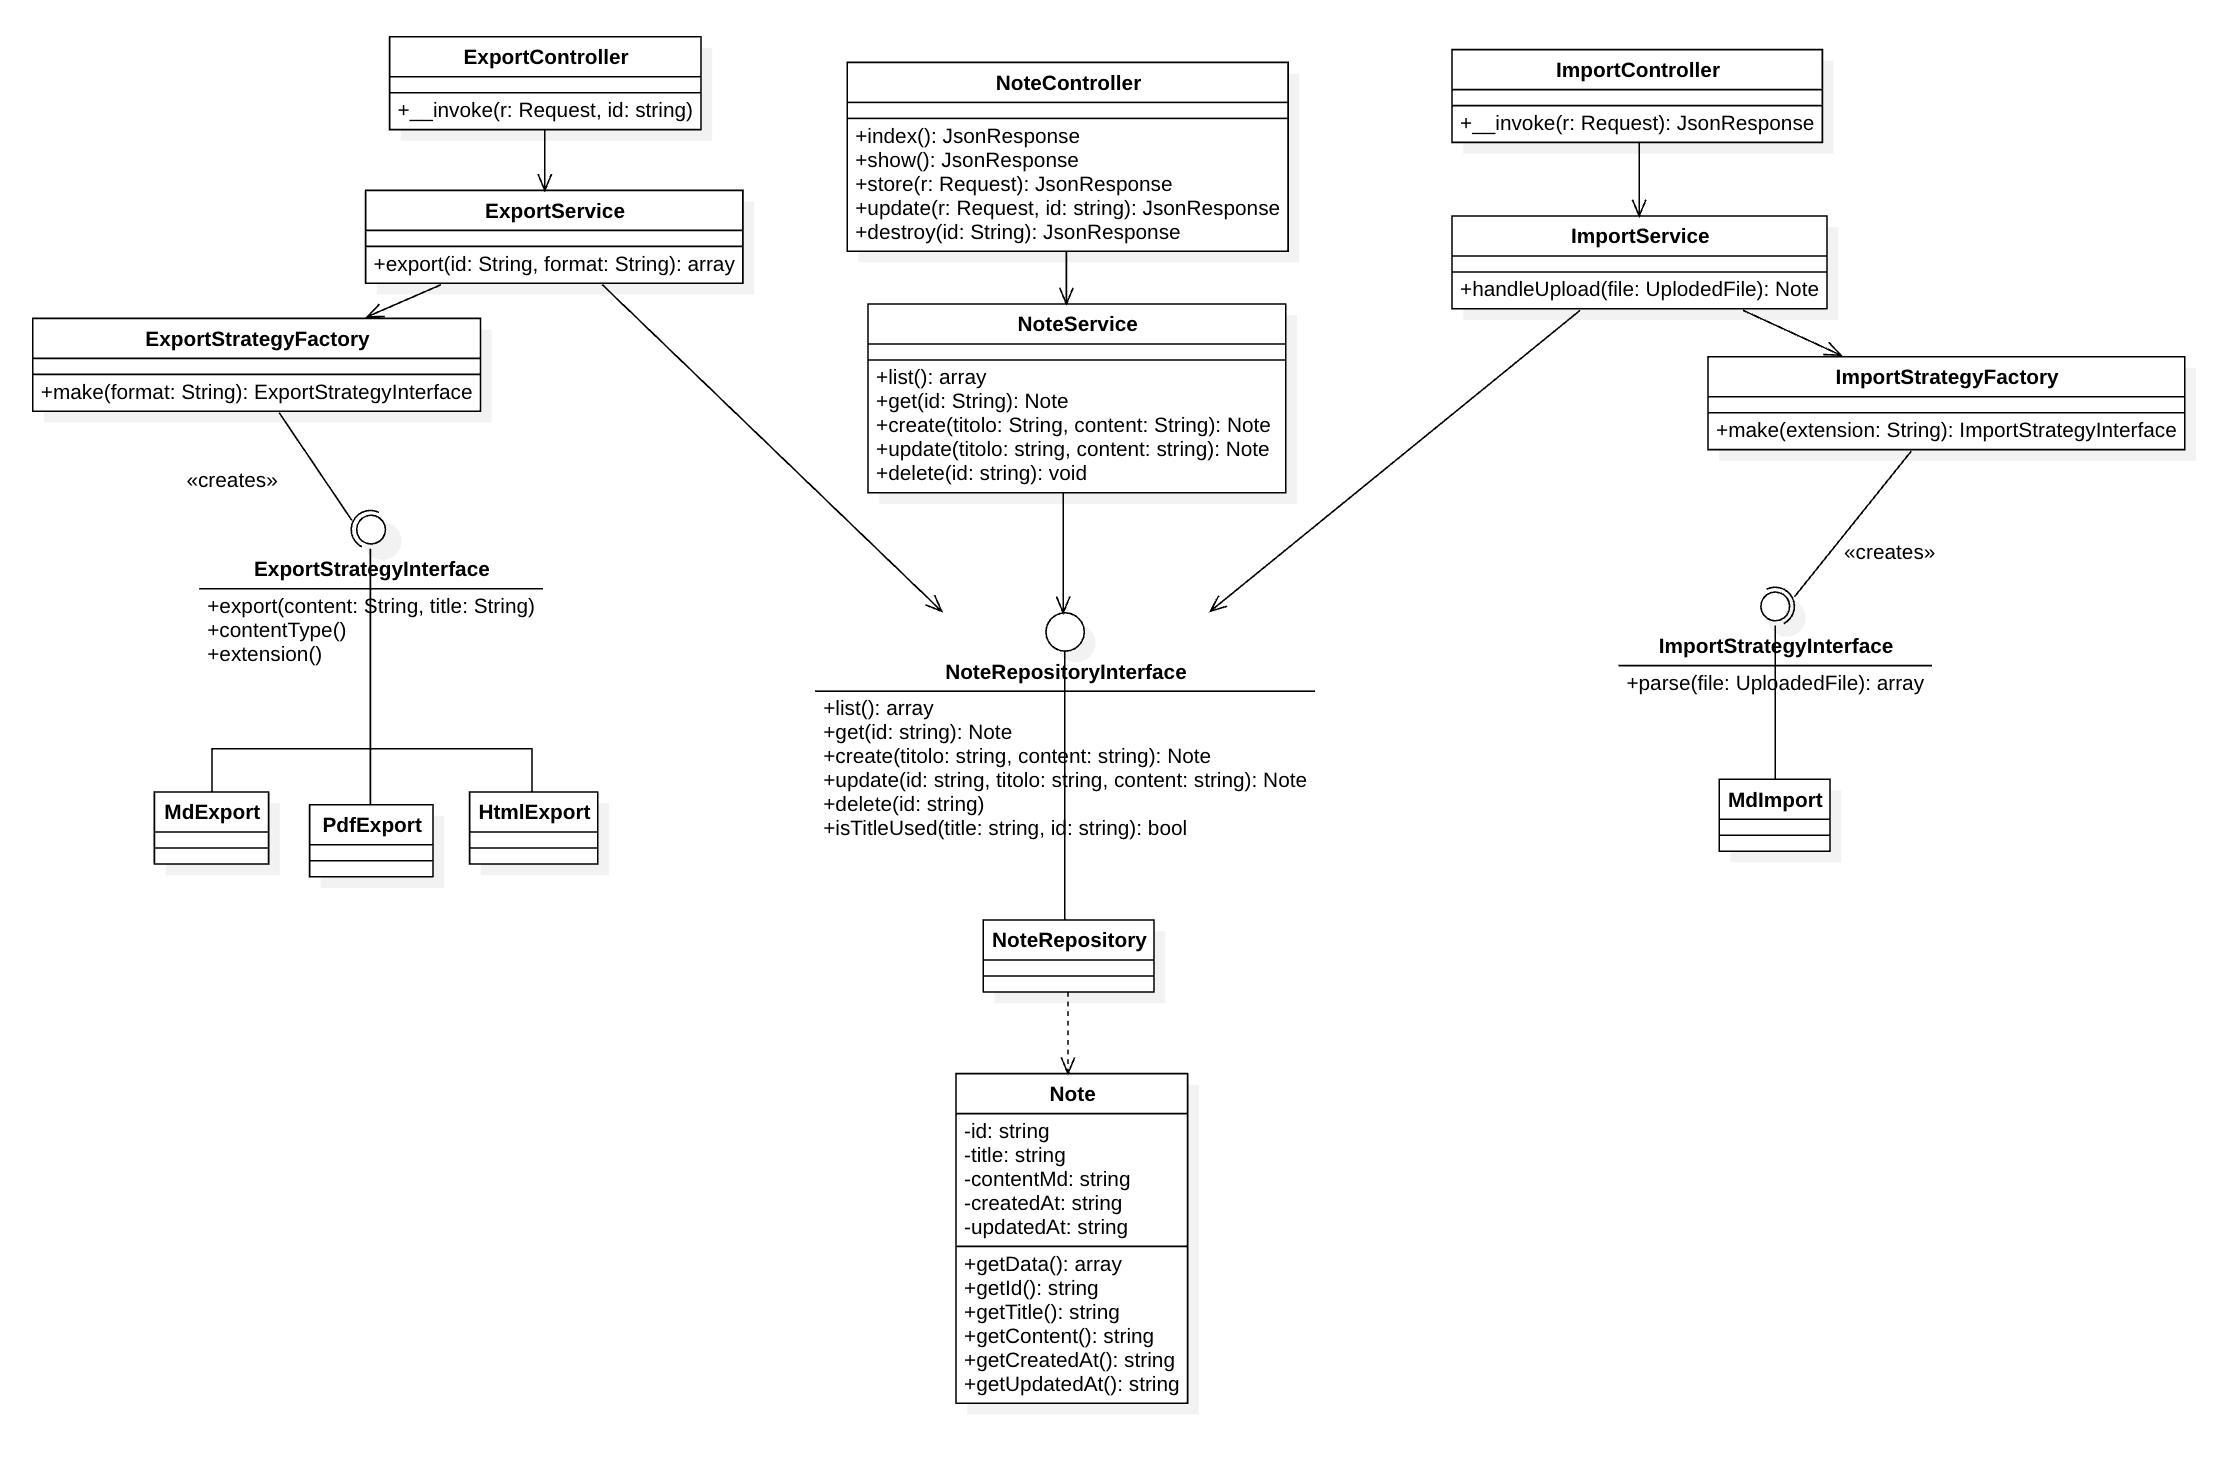
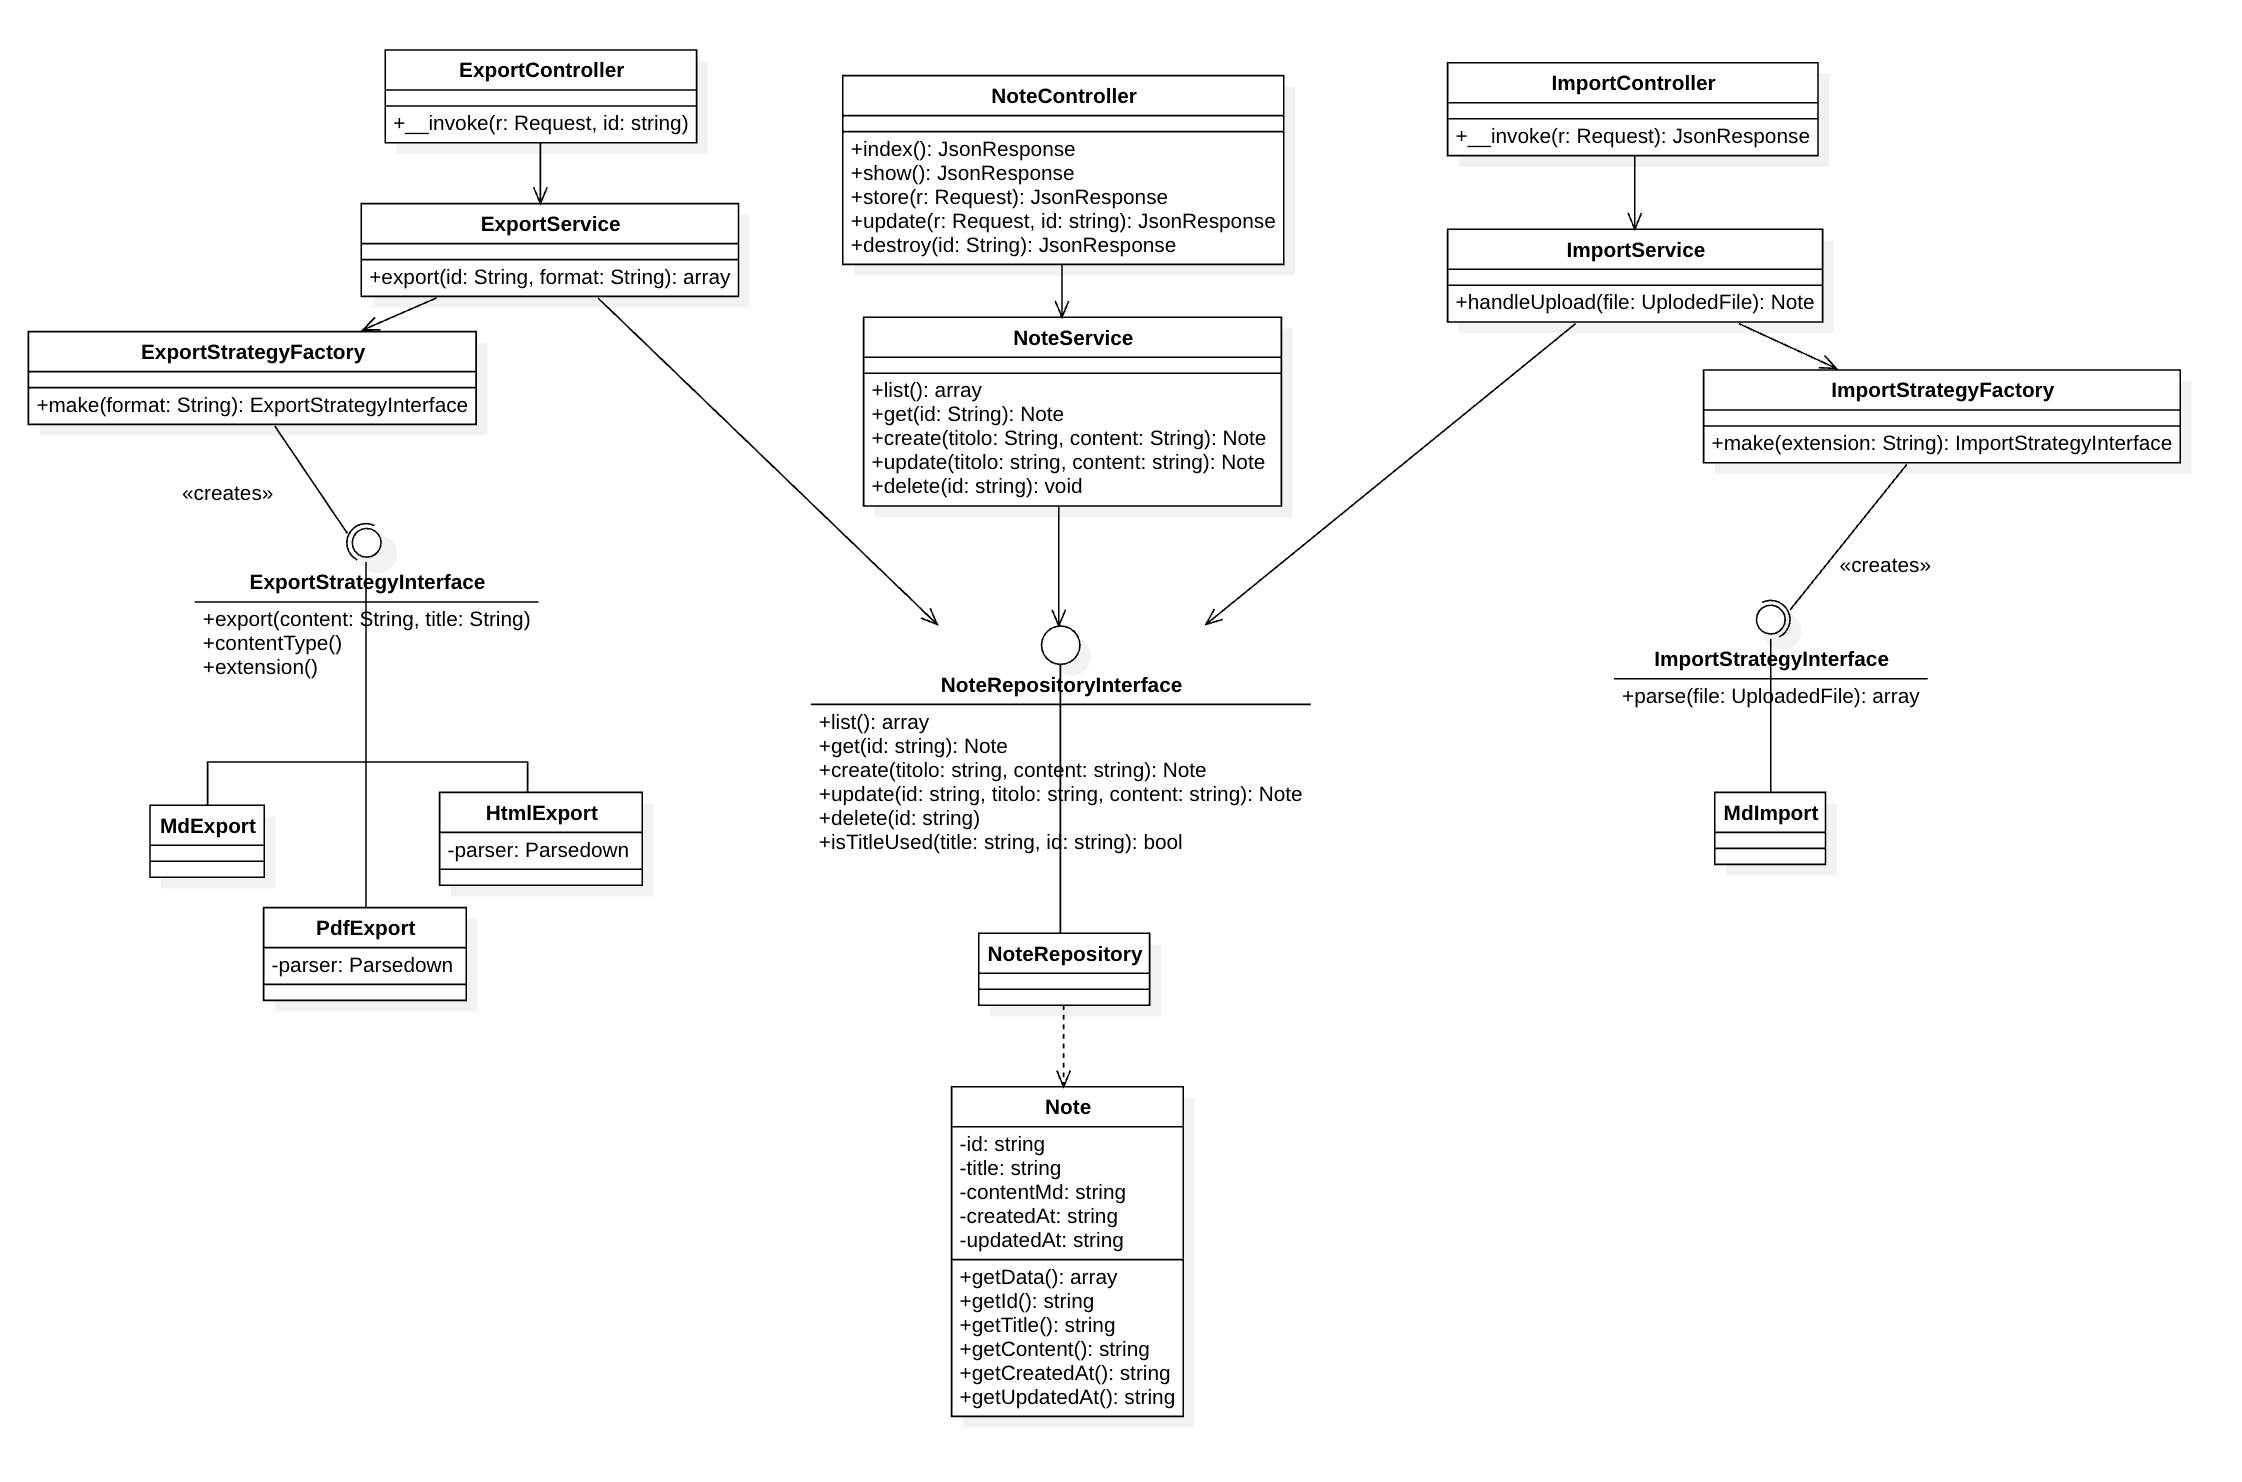
fix specifica tecnica

diff --git a/PB/latex/Specifica_Tecnica_v0.6.tex b/PB/latex/Specifica_Tecnica_v0.6.tex
@@ -308,9 +308,7 @@ Docker Compose è uno strumento che consente di definire, configurare e gestire 
 \end{itemize}
 
 \subsection{Modelli LLM esterni}
-Large Language Models utilizzati per le funzionalità AI richieste
-
-\subsubsection{...}
+Tra i modelli LLM (Large Language Models) disponibili tramite l'endpoint Zucchetti, abbiamo selezionato il modello \textit{Gemma3:4B}, in quanto ritenuto il più adeguato per le funzionalità AI richieste, sia in termini di velocità di risposta sia per la qualità e coerenza del contenuto generato.
 
 \newpage
 
@@ -409,7 +407,7 @@ La suddivisione in questi strati facilita lo sviluppo, la manutenzione e la scal
 \end{itemize}
 \subparagraph{MdExport} È l'implementazione concreta di ExportStrategyInterface per l'esportazione nel formato Markdown, è la strategy più semplice del sistema in quanto il contenuto delle note è già nativamente in formato Markdown, quindi non richiede alcuna trasformazione. Per la descrizione della firma e del contratto di ciascun metodo si rimanda alla sezione dedicata all'interfaccia.
 \subparagraph{HtmlExport} È l'implementazione concreta di ExportStrategyInterface per l'esportazione nel formato HTML. Utilizza la libreria Parsedown per convertire il contenuto Markdown della nota in markup HTML, che viene poi incorporato in un documento HTML completo e ben formato. Per la descrizione della firma e del contratto di ciascun metodo si rimanda alla sezione dedicata all'interfaccia.
-\subparagraph{PdfExport} È l'implementazione concreta di ExportStrategyInterface per l'esportazione nel formato PDF. Prima delega a \textit{HtmlExport} la trasformazione del Markdown in HTML, poi utilizza la libreria \texttt{barryvdh/laravel-domppdf} per convertire l'HTML in un documento PDF binario. Per la descrizione della firma e del contratto di ciascun metodo si rimanda alla sezione dedicata all'interfaccia.
+\subparagraph{PdfExport} È l'implementazione concreta di ExportStrategyInterface per l'esportazione nel formato PDF. Prima delega al parser la trasformazione del Markdown in HTML, poi utilizza la libreria \texttt{barryvdh/laravel-domppdf} per convertire l'HTML in un documento PDF binario. Per la descrizione della firma e del contratto di ciascun metodo si rimanda alla sezione dedicata all'interfaccia.
 
 \paragraph{Interazione con LLM}
 \vspace{0.5em}
